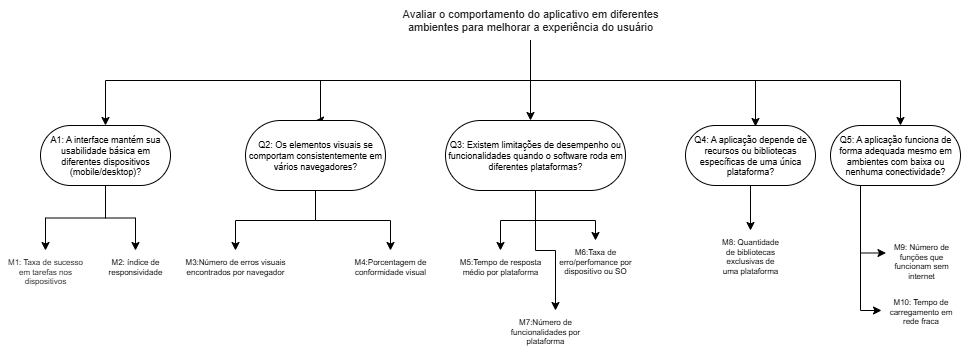
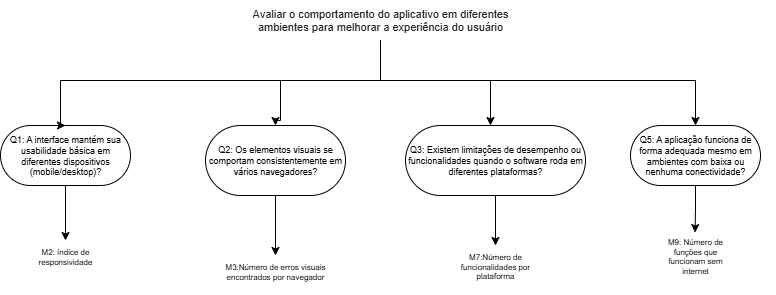
ajuste de diagrama

diff --git a/docs/fase2/objetivo2.md b/docs/fase2/objetivo2.md
@@ -20,9 +20,7 @@
 
 > **Q3:** Existem limitações de desempenho ou funcionalidades quando o software roda em diferentes plataformas? <br> **Hipótese 3:** Espera-se que menos de 10% dos testes apresentem perda significativa de desempenho ou falhas de funcionalidade entre plataformas.
 
-> **Q4:** A aplicação depende de recursos ou bibliotecas específicas de uma única plataforma? <br> **Hipótese 4:** Espera-se que a solução utilize majoritariamente tecnologias multiplataforma.
-
-> **Q5:** A aplicação funciona de forma adequada mesmo em ambientes com baixa ou nenhuma conectividade? <br> **Hipótese 5:** Espera-se que as funcionalidades essenciais estejam disponíveis mesmo em modo offline ou com conexão instável.
+> **Q4:** A aplicação funciona de forma adequada mesmo em ambientes com baixa ou nenhuma conectividade? <br> **Hipótese 4:** Espera-se que as funcionalidades essenciais estejam disponíveis mesmo em modo offline ou com conexão instável.
 
 ## Relação entre Objetivos de Medição - Questões e Métricas - Objetivo de Medição 2: Portabilidade
 
@@ -41,16 +39,11 @@ Com base na abordagem Goal-Question-Metric (GQM), selecionamos as seguintes mét
 
 #### Confiabilidade
 
-- **M1:** Taxa de sucesso em tarefas nos dispositivos
-- **M2:** índice de responsividade
-- **M3:**Número de erros visuais encontrados por navegador
-- **M4:**Porcentagem de conformidade visual
-- **M5:**Tempo de resposta médio por plataforma
-- **M6:**Taxa de erro/perfomance por dispositivo ou SO
-- **M7:**Número de funcionalidades por plataforma 
-- **M8:**Quantidade de bibliotecas exclusivas de uma plataforma 
-- **M9:**Número de funções que funcionam sem internet 
-- **M10:**Tempo de carregamento em rede fraca 
+- **M1:** índice de responsividade
+- **M2:**Número de erros visuais encontrados por navegador
+- **M3:**Número de funcionalidades por plataforma 
+- **M4:**Número de funções que funcionam sem internet 
+
 
 ## Níveis de Pontuação das Métricas
 
